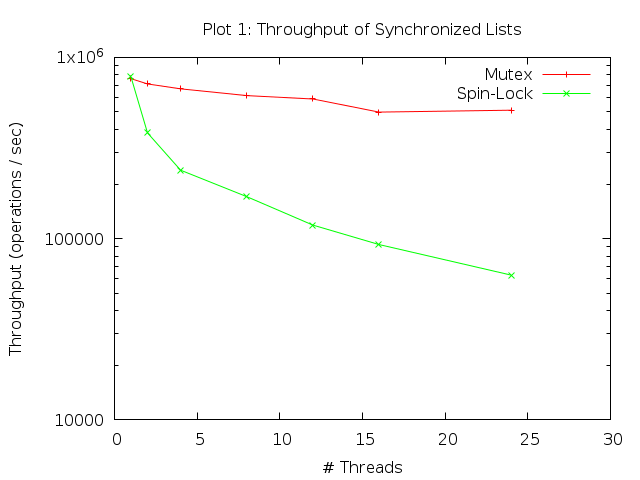
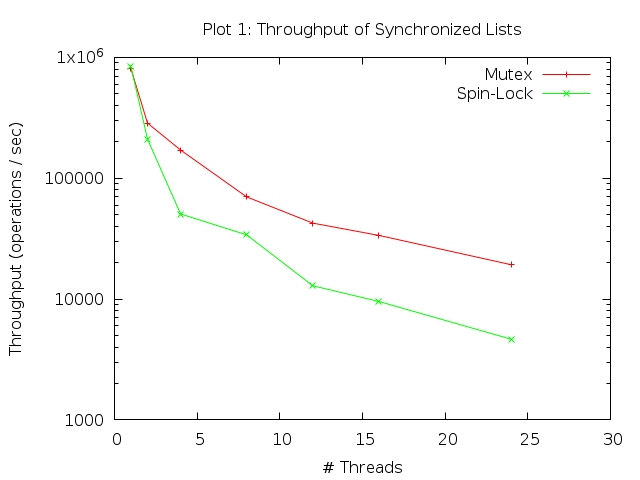
New graph based on new locking mechanism

diff --git a/lab2B/lab2_list.c b/lab2B/lab2_list.c
@@ -171,6 +171,7 @@ void* listOperations(void* threadIndex) {
               fprintf(stderr, "error: failed to delete an element we already inserted\n");
               exit(2);
           }
+	  break;
       }
     }
 
